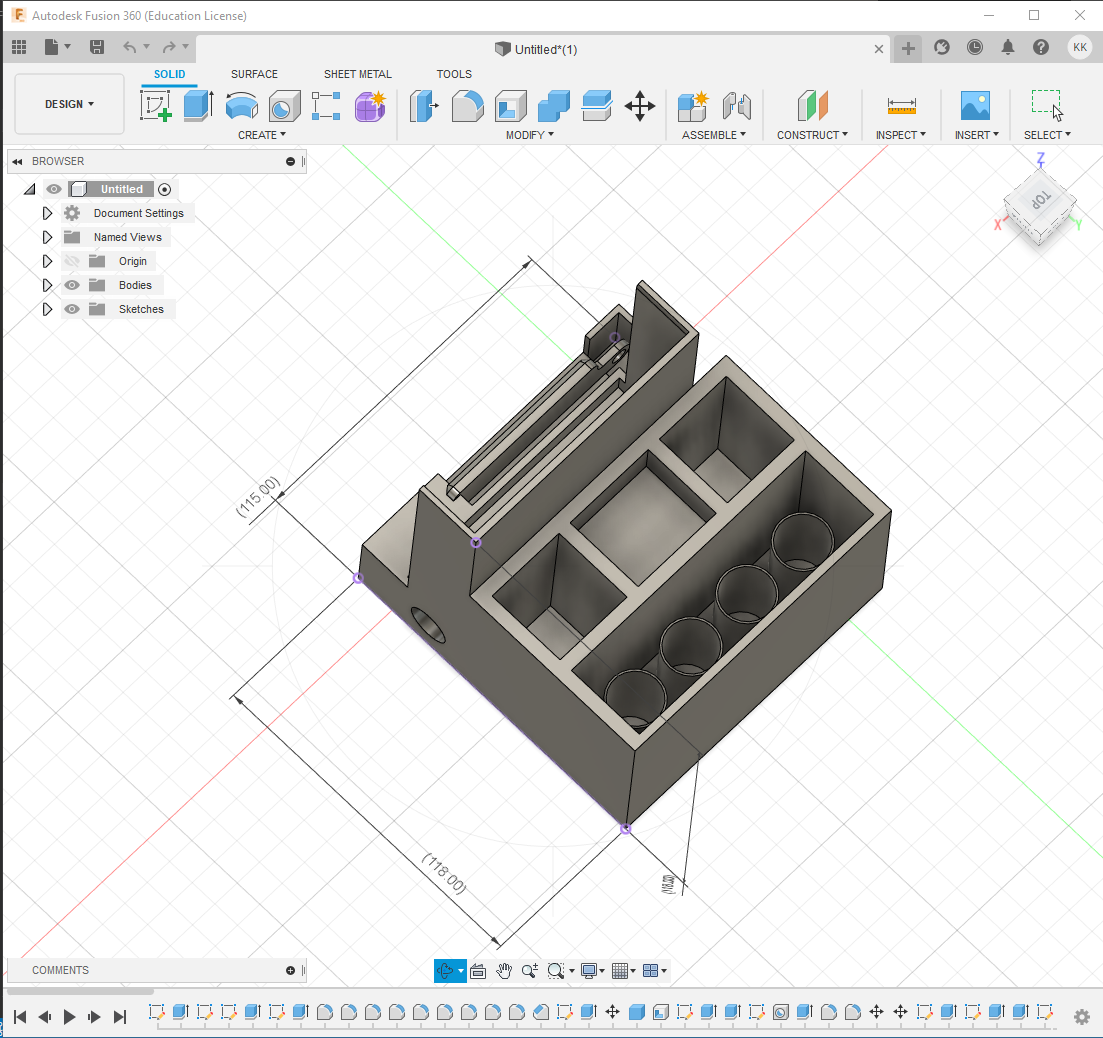
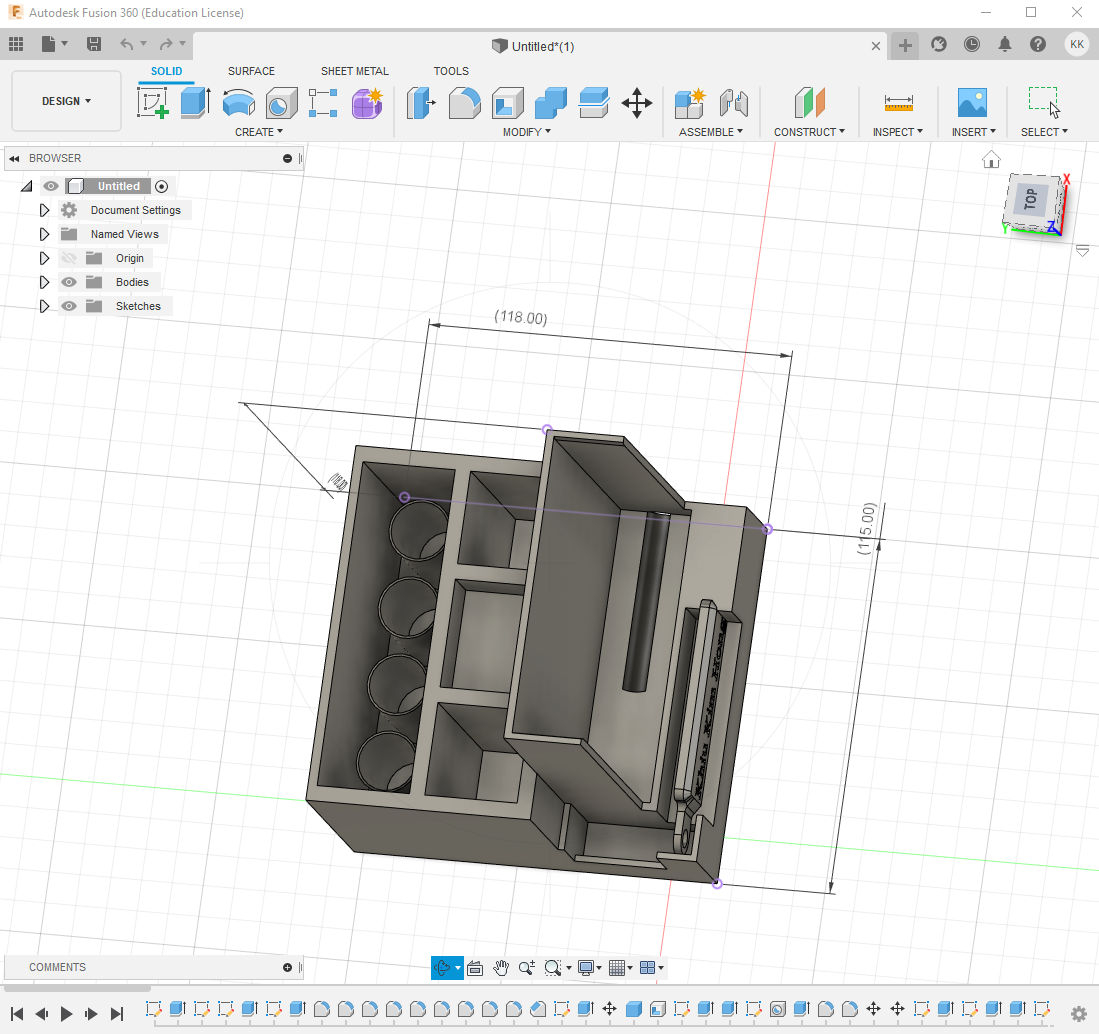
Updated sp cadd 3d pt 2

diff --git a/_posts/2021-03-31-sp-cadd-3d-pt2.md b/_posts/2021-03-31-sp-cadd-3d-pt2.md
@@ -25,4 +25,47 @@ As per the stipulated requirements, my desk organiser has the following function
 |![desk org front](/assets/images/2021-03-31-sp-cadd-3d-pt2/desk_org_pt_fin.png)|
 |<em>Front view</em>|
 |![desk org top](/assets/images/2021-03-31-sp-cadd-3d-pt2/desk_org_pt_fin2.png)|
-|<em>Top view</em>|
+|<em>Top view, a small compartment is present to accommodate keys</em>|
+
+***
+
+Design thoughts and process: Phone compartment
+
+***
+
+The key chain was first imported into a new file to allow easier visualisation for integration
+
+|![desk org front](/assets/images/2021-03-31-sp-cadd-3d-pt2/desk_org_pt1.png)|
+|<em>Imported key chain</em>|
+
+
+The idea of the phone holder was an attempt by me to do something that I believe would be unique.
+
+The structure of the phone holder was created using the create box command with the dimensions of 100mm by 30mm by 120mm
+
+|![desk org front](/assets/images/2021-03-31-sp-cadd-3d-pt2/desk_org_pt2.png)|
+|<em>Front view</em>|
+
+The structure was then extruded to make a platform to hold the phone. A hole was subsequently created with the hole command to allow for a charging cable to inserted into the phone holder. The edges were also filleted
+
+|![desk org front](/assets/images/2021-03-31-sp-cadd-3d-pt2/desk_org_pt3.png)|
+|<em>Phone holder begins to take shape</em>|
+
+***
+
+Design thoughts and process: Key chain integration
+
+***
+An 'L' shaped structure was created using sketch and extrude commands to allow for accommodation of the key chain. The idea behind the 'L' shape was to give a compartment for keys to be placed. This structure was then hollowed and trimmed. 
+
+![desk org front](/assets/images/2021-03-31-sp-cadd-3d-pt2/desk_org_pt4.png)
+
+The key chain was then moved into the compartment. The extrude commands was then used to 'encase' the key chain. The cut command was used to further refine the integration of the key chain with the desk organiser.Lastly, a segment of the structure was the extruded to make a compartment for the keys  
+
+![desk org front](/assets/images/2021-03-31-sp-cadd-3d-pt2/desk_org_pt5.png)
+
+***
+
+Design thoughts and process: Stationary compartment
+
+***
